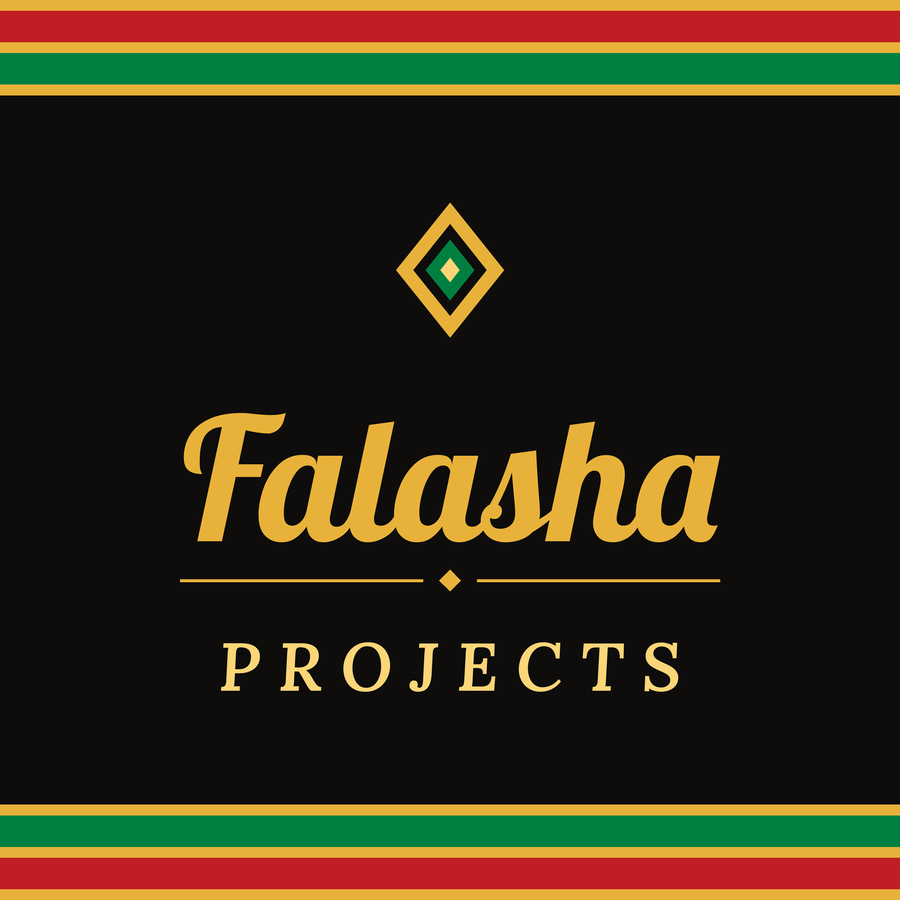
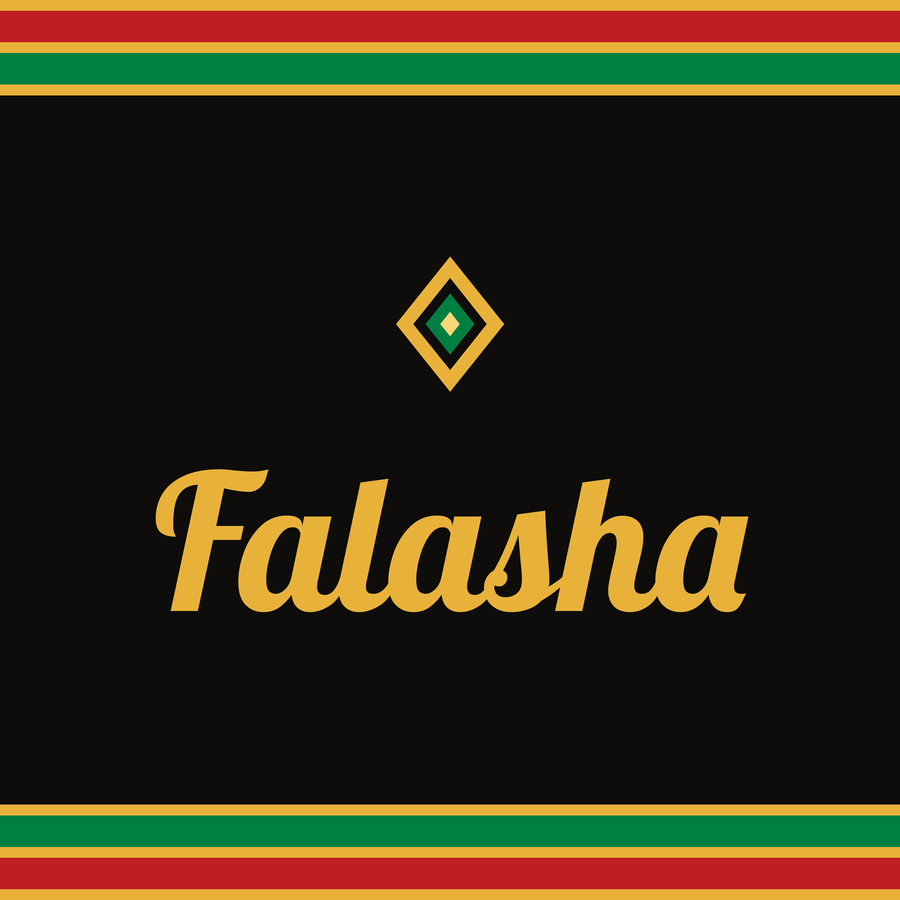
Outside label: show only "Falasha"
Claude-Session: https://claude.ai/code/session_01Mt1Tg14bgvqpkRSeX5tTDt

Changed region(s): [[0.1556, 0.4356, 0.84, 0.6844], [0.2489, 0.7156, 0.7778, 0.7778], [0.4356, 0.2178, 0.56, 0.4356]]

diff --git a/heritage-crossbody-bag/make_label.py b/heritage-crossbody-bag/make_label.py
@@ -1,4 +1,4 @@
-"""Outside label (3"x3" at 300 DPI) for the heritage crossbody bag.
+"""Falasha outside label (3"x3" at 300 DPI) for the heritage crossbody bag.
 
 Usage: python3 make_label.py <fonts_dir> <out_dir>
 Key content stays in the middle band so it survives if the label is cropped to a strip.
@@ -31,23 +31,14 @@ def label(fonts, px=900):
 
     cx = S / 2
     # diamond emblem (same motif as the bag)
-    cy, hh = S * 0.30, S * 0.075
+    cy, hh = S * 0.36, S * 0.075
     for sc, col in ((1.0, GOLD), (0.68, BLACK), (0.45, GREEN), (0.18, GOLD_LIGHT)):
         d.polygon([(cx, cy - hh * sc), (cx + hh * 0.8 * sc, cy), (cx, cy + hh * sc), (cx - hh * 0.8 * sc, cy)], fill=col)
 
     # name
-    f = ImageFont.truetype(str(fonts / "Lobster.ttf"), round(S * 0.19))
-    d.text((cx, S * 0.53), "Falasha", font=f, anchor="mm", fill=GOLD)
+    f = ImageFont.truetype(str(fonts / "Lobster.ttf"), round(S * 0.21))
+    d.text((cx, S * 0.60), "Falasha", font=f, anchor="mm", fill=GOLD)
 
-    # divider + PROJECTS
-    w = S * 0.30
-    d.line((cx - w, S * 0.645, cx - S * 0.03, S * 0.645), fill=GOLD, width=SS * 3)
-    d.line((cx + S * 0.03, S * 0.645, cx + w, S * 0.645), fill=GOLD, width=SS * 3)
-    r = S * 0.012
-    d.polygon([(cx, S * 0.645 - r), (cx + r, S * 0.645), (cx, S * 0.645 + r), (cx - r, S * 0.645)], fill=GOLD)
-    f2 = ImageFont.truetype(str(fonts / "Lora-SemiBoldItalic.ttf"), round(S * 0.075))
-    text = " ".join("PROJECTS")
-    d.text((cx, S * 0.74), text, font=f2, anchor="mm", fill=GOLD_LIGHT)
 
     return im.resize((px, px), Image.LANCZOS)
 
